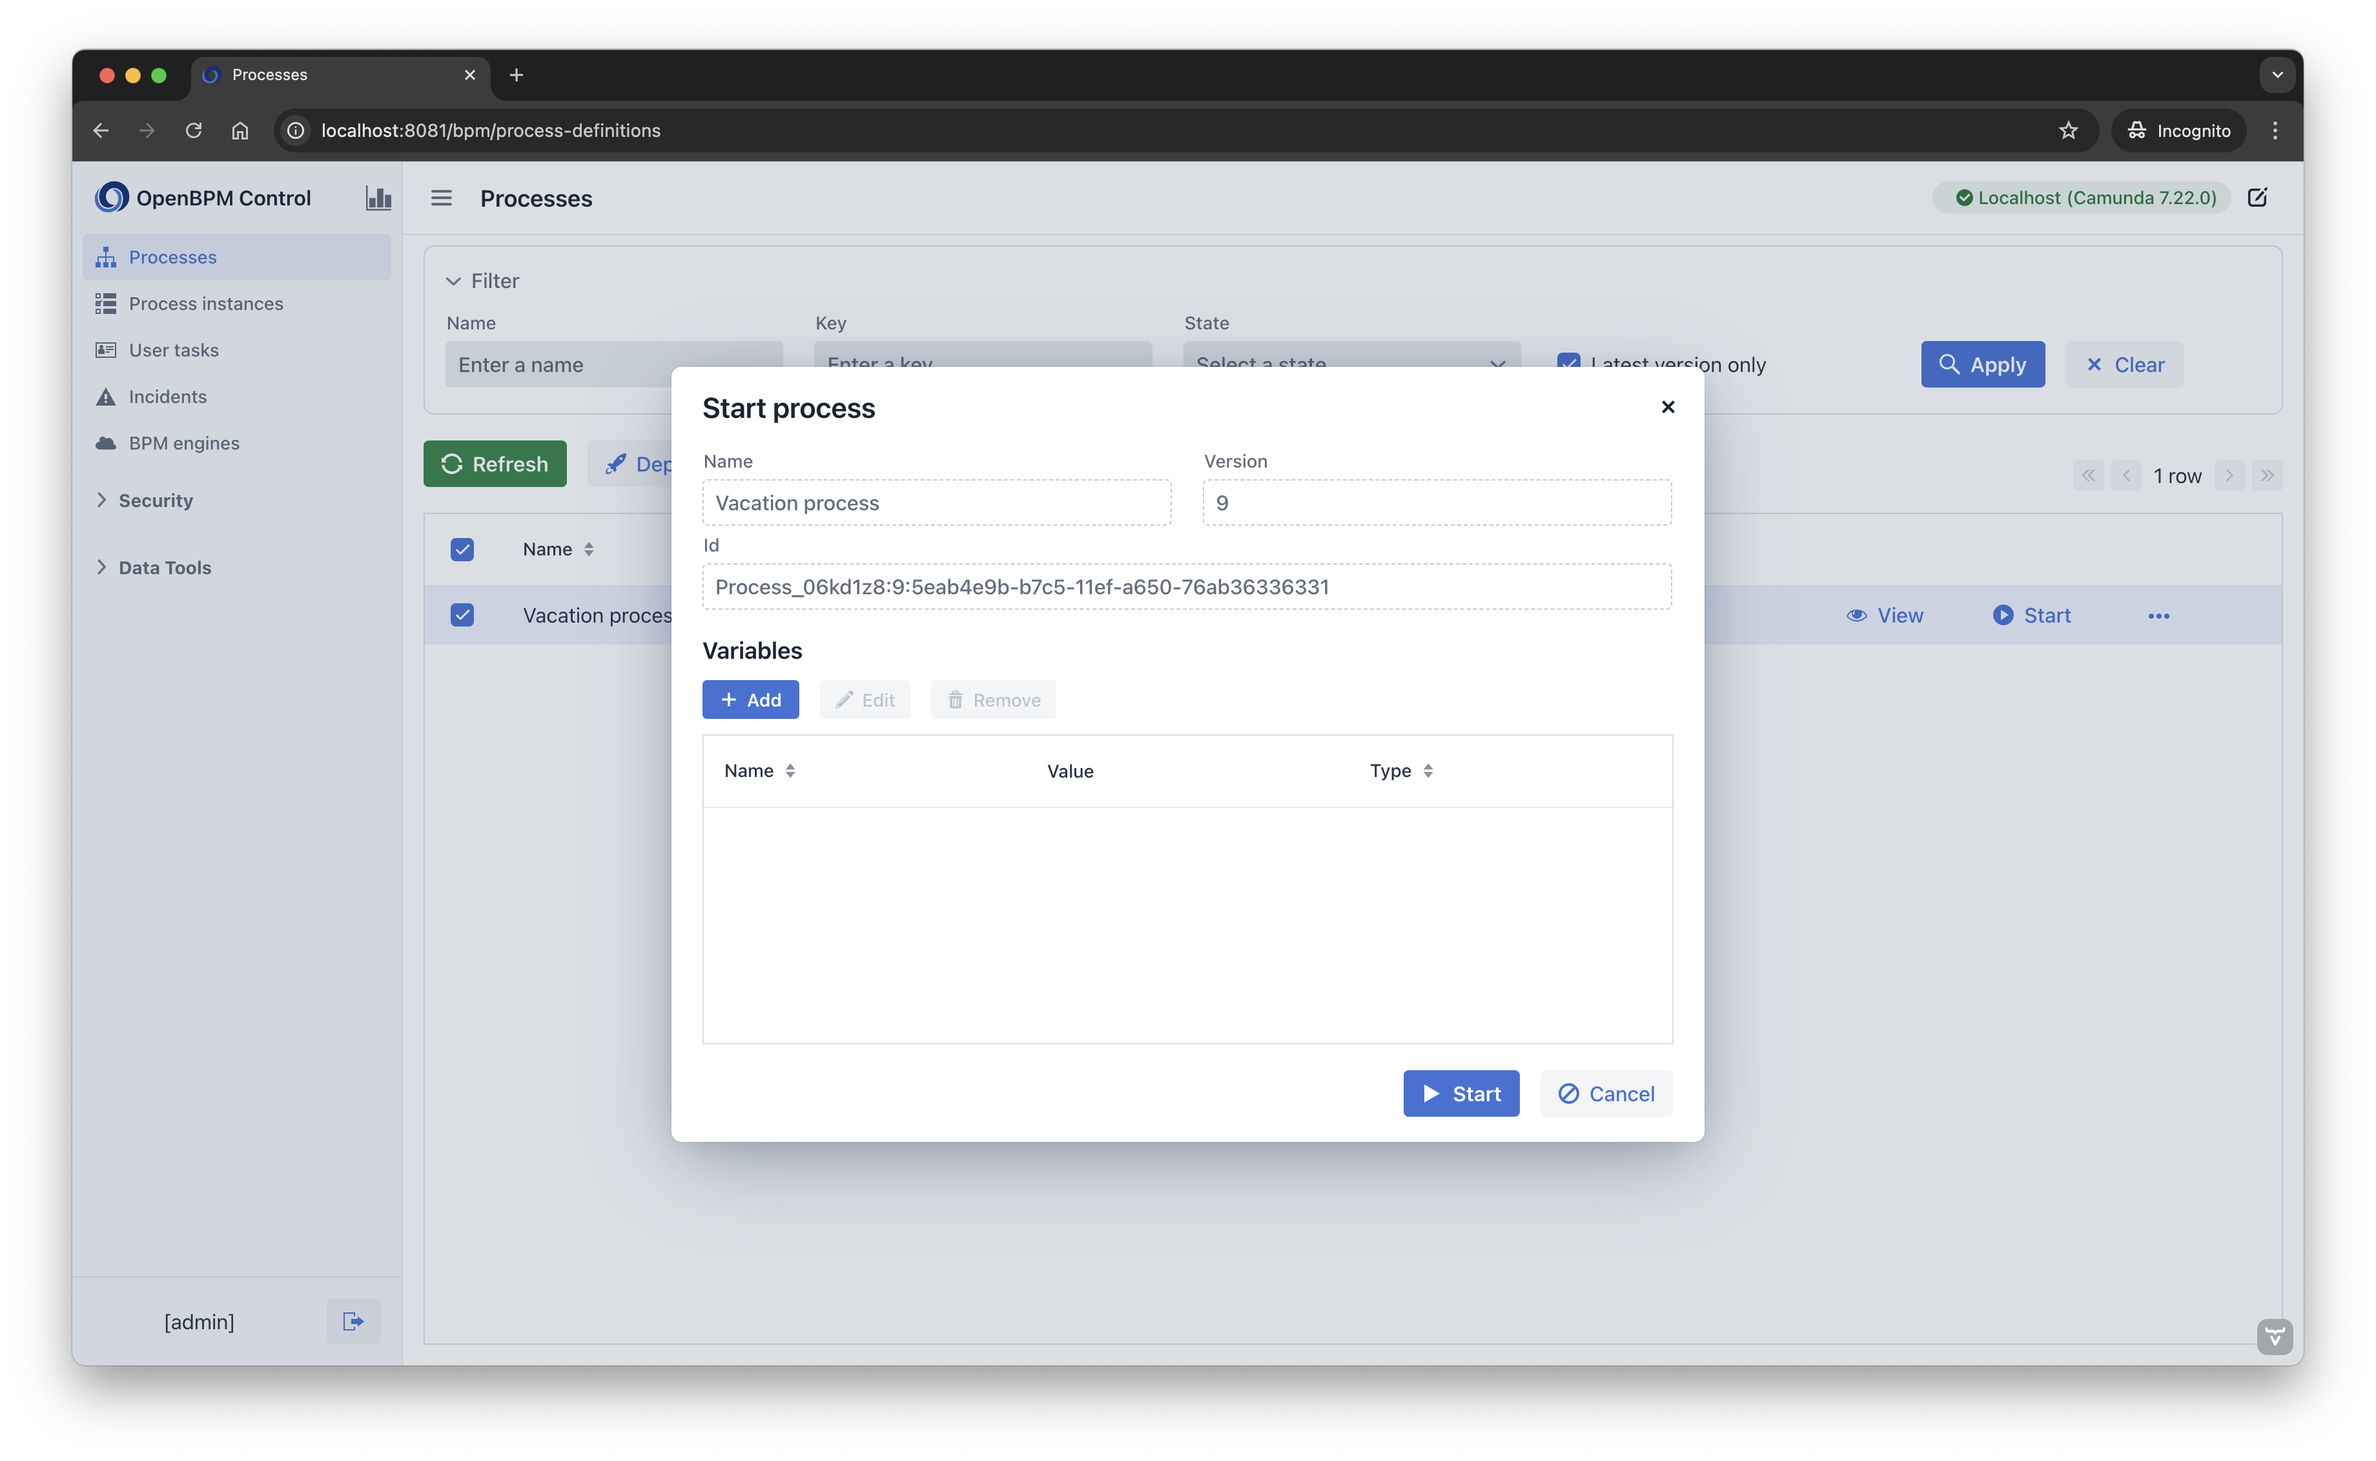
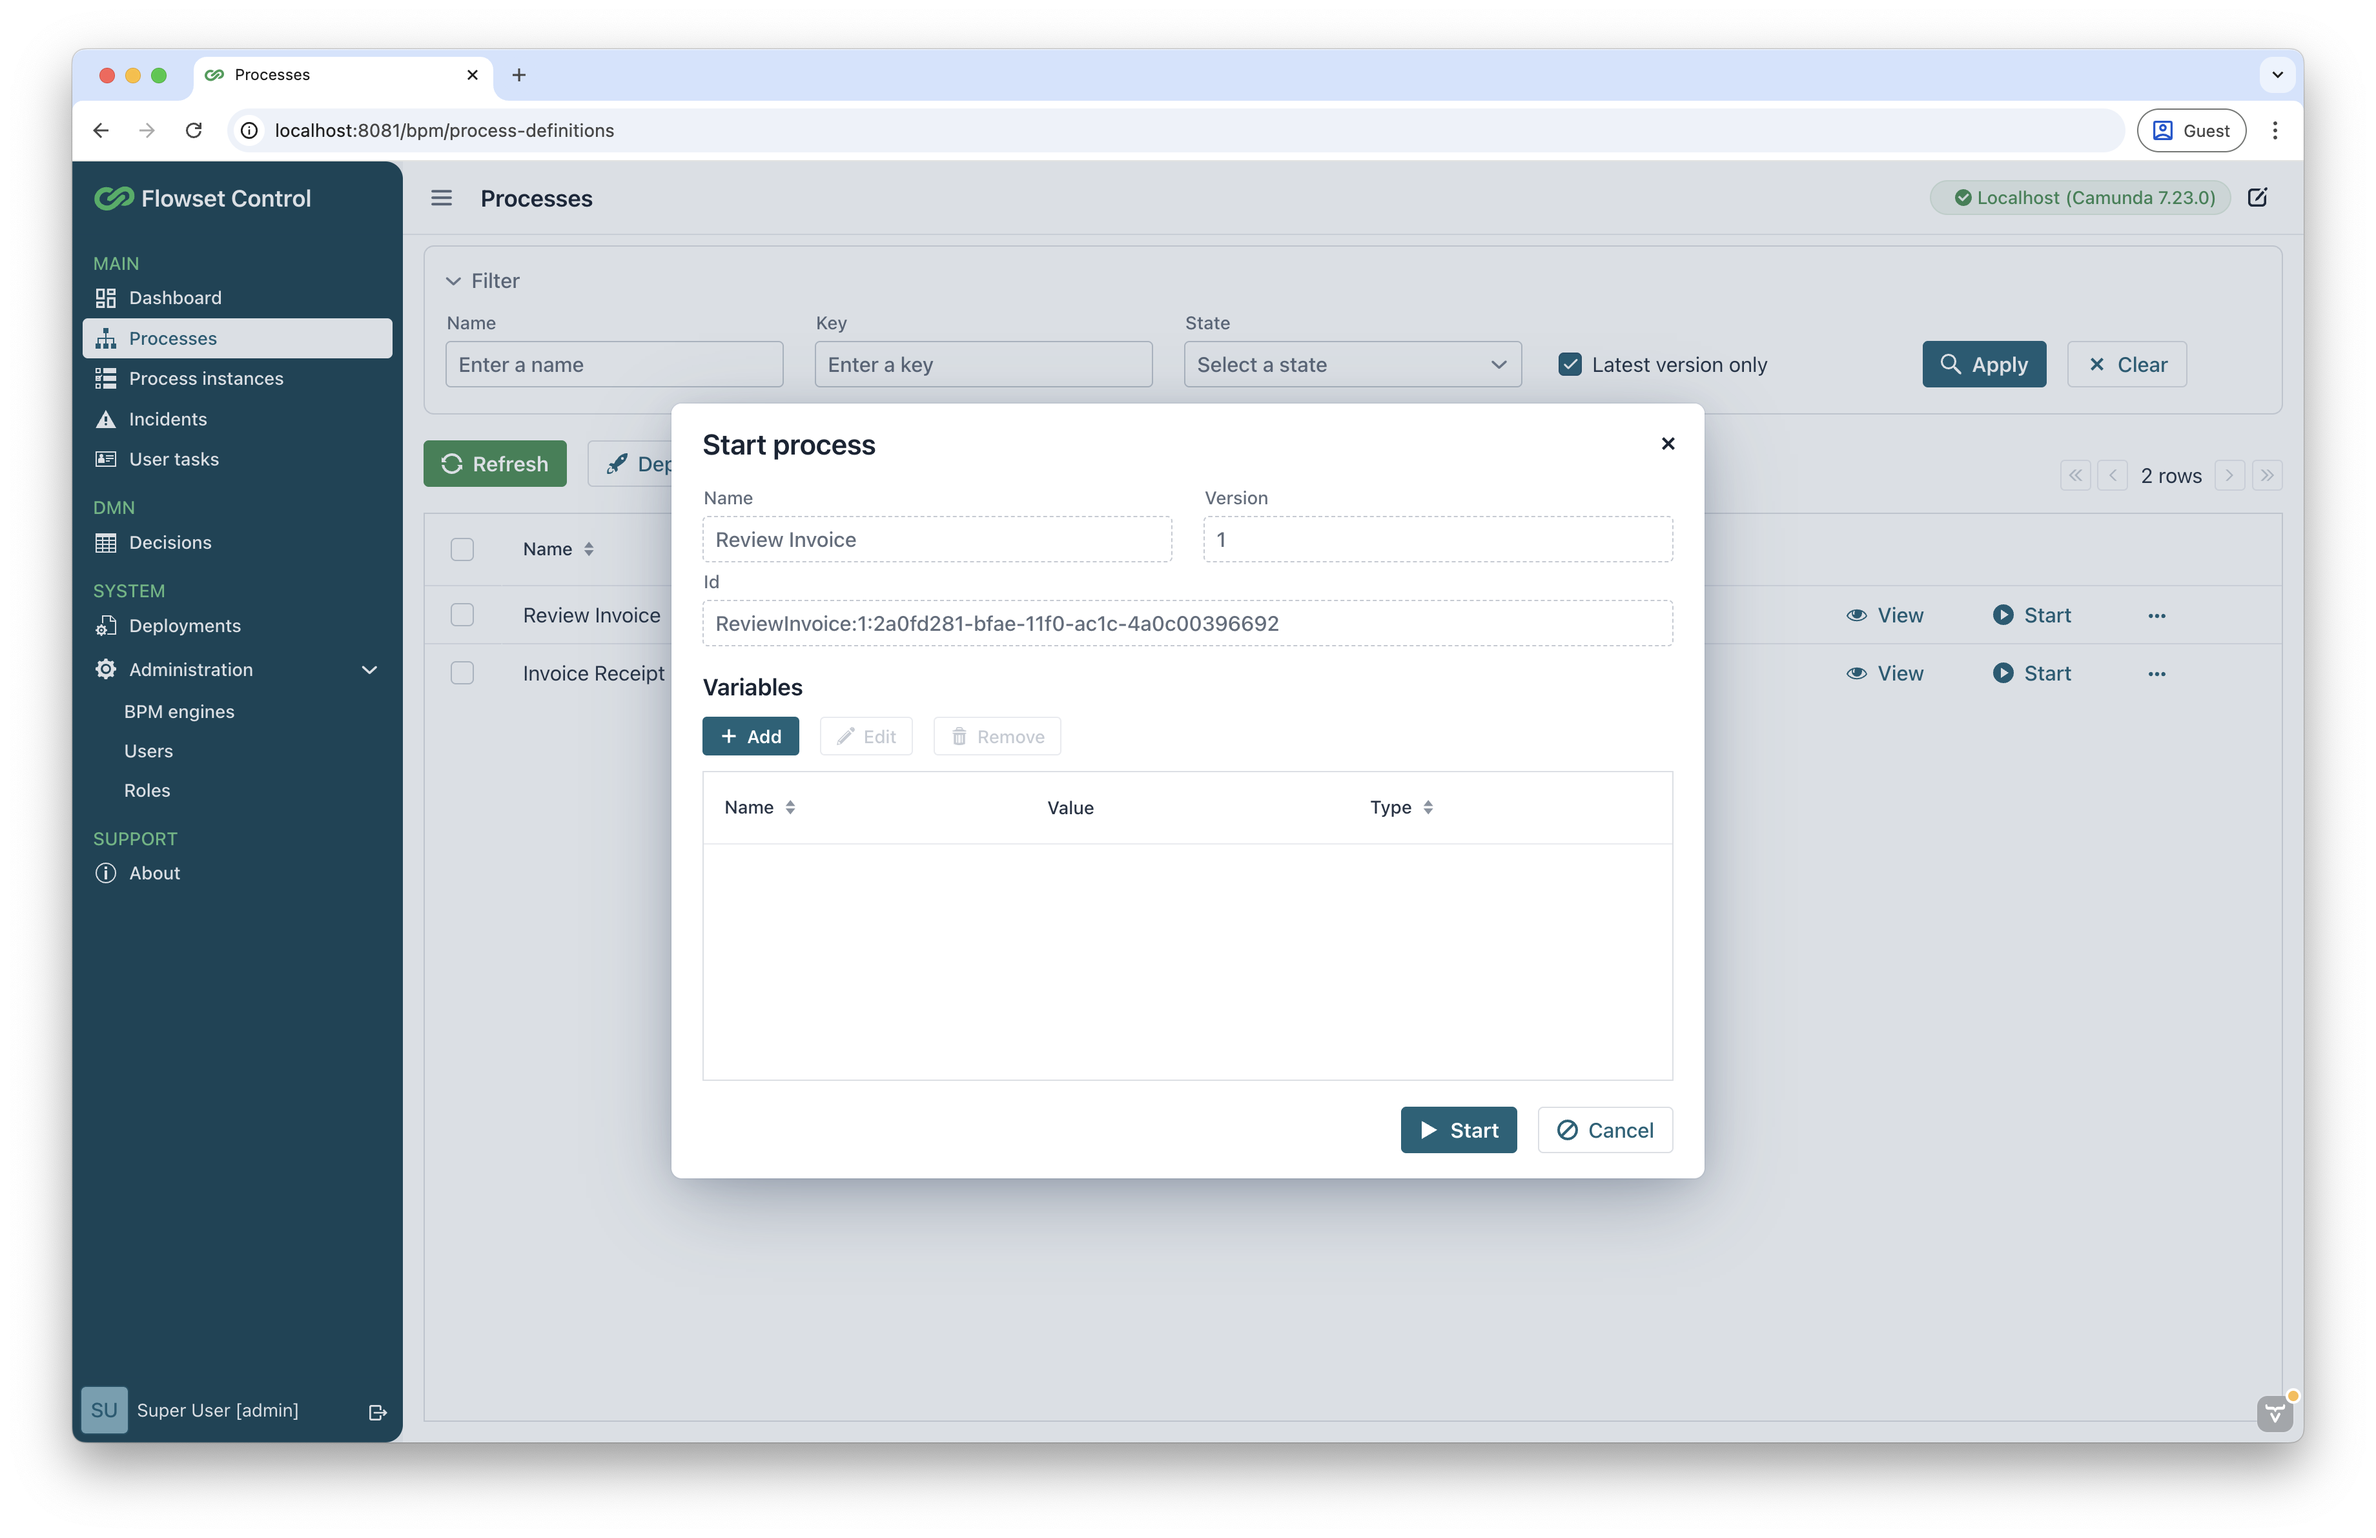
Update README.md file

diff --git a/README.md b/README.md
@@ -1,4 +1,4 @@
-**Flowset Control** is a web application that provides administrative functionality for external BPM engines.
+**Flowset Control Community** is a web application that provides administrative functionality for external BPM engines.
 
 **Key Features**
 - **Connection Management:** Easily set up connections to various BPM engines and switch between them as needed.
@@ -10,7 +10,7 @@
 > [!NOTE]
 > Currently, only Camunda 7 is supported. 
 
-Flowset Control is built using the open-source [Jmix](https://www.jmix.io) framework.
+Flowset Control Community is built using the open-source [Jmix](https://www.jmix.io) framework.
 
 ## Table of Contents
 
@@ -32,10 +32,10 @@ Flowset Control is built using the open-source [Jmix](https://www.jmix.io) frame
 
 ## Running the Application <a name="running-the-application"></a>
 
-You can run Flowset Control using either a Docker image or from source code.
+You can run Flowset Control Community using either a Docker image or from source code.
 
 ### Docker Image <a name="docker-image"></a>
-This method allows running Flowset Control with a pre-built Docker image.
+This method allows running Flowset Control Community with a pre-built Docker image.
 
 **Prerequisites:**
 
@@ -46,7 +46,7 @@ You must have the following installed:
 Instructions can be found [here](docker-compose/README.md).
 
 ### Using Sources <a name="using-sources"></a>
-This method allows building and running Flowset Control locally with Gradle.
+This method allows building and running Flowset Control Community locally with Gradle.
 
 **Prerequisites:**
 
@@ -62,8 +62,8 @@ You must have the following installed:
      git clone https://github.com/flowset/flowset-control
     ```
 2. Configure a PostgreSQL database.
-   Flowset Control stores data such as connections to BPM engines in the database. 
-   Flowset Control requires a PostgreSQL database by default:
+   Flowset Control Community stores data such as connections to BPM engines in the database. 
+   Flowset Control Community requires a PostgreSQL database by default:
    - Name: `flowset-control`
    - Connection username: `root`
    - Connection password: `root`
@@ -75,7 +75,7 @@ You must have the following installed:
 The application is now running at http://localhost:8081 in the browser.
 
 ## Usage <a name="usage"></a>
-Flowset Control requires authenticated access. An administrative user with the credentials `admin/admin` is provided 
+Flowset Control Community requires authenticated access. An administrative user with the credentials `admin/admin` is provided 
 from the start. To add more users, see the [Configuring Users](#configuring-users) section.
 
 ### Connecting to BPM Engines <a name="connecting-to-bpm-engines"></a>
@@ -94,7 +94,7 @@ To add a connection to a running BPM engine, follow these steps:
 
 You can configure as many connections as needed.
 
-In the upper right corner, you can see which engine Flowset Control is currently connected to.
+In the upper right corner, you can see which engine Flowset Control Community is currently connected to.
 
 ![engine-state.png](img/engine-state.png)
 
@@ -174,12 +174,12 @@ In addition to viewing, you can also increase the number of retries for incident
 ![incident-list-view.png](img/incident-list-view.png)
 
 ### Configuring Users <a name="configuring-users"></a>
-Flowset Control stores users in the `USER_` table in the configured database.
+Flowset Control Community stores users in the `USER_` table in the configured database.
 
 #### Adding Users <a name="add-a-user"></a>
 
 To add a new user, follow these steps:
-1. Log in to Flowset Control with administrator credentials (by default, `admin/admin`).
+1. Log in to Flowset Control Community with administrator credentials (by default, `admin/admin`).
 2. In the menu, go to **Security** -> **Users** and then click the **Create** button.
 
 ![user-list-view.png](img/user-list-view.png)
@@ -205,7 +205,7 @@ To grant permissions to a user, follow these steps:
 
 ![role-assignments-view_2.png](img/role-assignments-view_2.png)
 
-The user can now log in to Flowset Control and use all the functionality.
+The user can now log in to Flowset Control Community and use all the functionality.
 
 ## Running the Tests <a name="running-the-tests"></a>
 
@@ -215,10 +215,10 @@ You must have the following installed:
 
 1. Docker
 
-Flowset Control tests use [Testcontainers](https://testcontainers.com/) to run database and BPM engine containers.
+Flowset Control Community tests use [Testcontainers](https://testcontainers.com/) to run database and BPM engine containers.
 and do not require a pre-prepared running instances for them.
 
-To run all tests in Flowset Control, use the following command:
+To run all tests in Flowset Control Community, use the following command:
 
 ```shell
 .\gradlew test
@@ -270,4 +270,4 @@ Using Gradle command properties:
 ```
 
 ## License <a name="license"></a>
-Flowset Control is an open-source project distributed under the [Apache 2.0](https://www.apache.org/licenses/LICENSE-2.0) license. 
+Flowset Control Community is an open-source project distributed under the [Apache 2.0](https://www.apache.org/licenses/LICENSE-2.0) license. 
